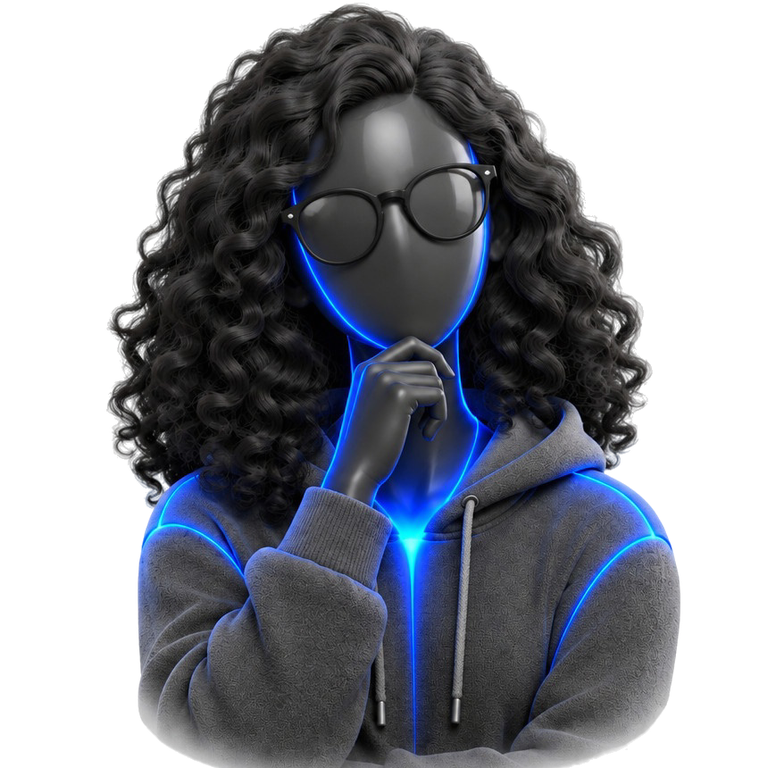
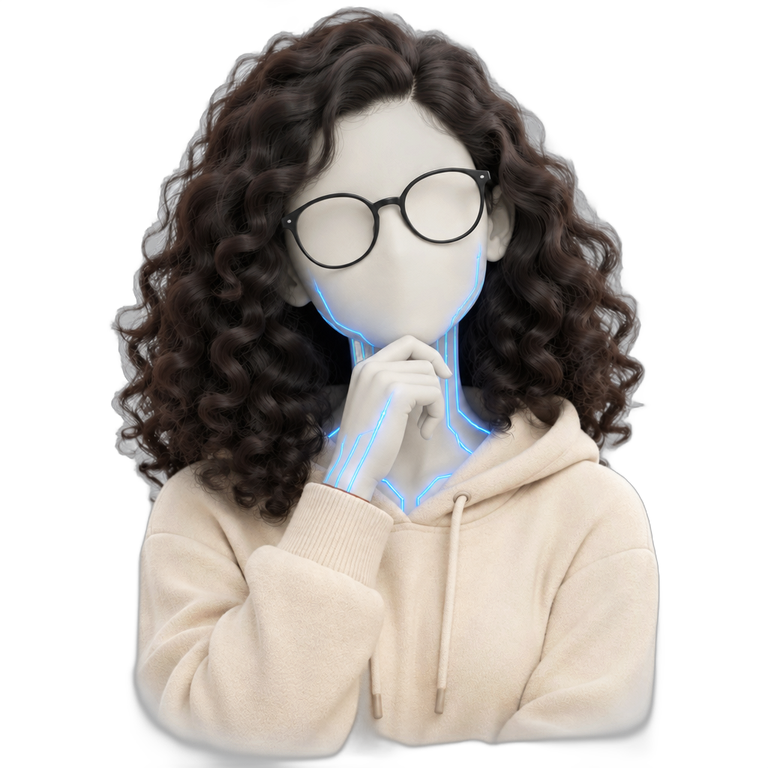
Characters: 13 new gamers (second cast) and all 30 AI copies redone in matte white bisque (skin only; hair, clothes, accessories keep their colours). Each reset wave swaps to the other cast

diff --git a/src/tiles/characters.js b/src/tiles/characters.js
@@ -33,34 +33,30 @@ diffuseColor.a *= clip * ${role === 'ai' ? 'uScan' : '(1.0 - uScan)'};`);
   return mat;
 }
 
-// Returns a Map "i,j" -> { setScan(s), setLift(y), meshes, converted }.
-// Starts downloading every human and AI picture at once; addCharacters then uses these.
-export function preloadCharacters(P) {
+// Starts downloading every human and AI picture of `names` at once: a Map "dir/name" -> Promise<Texture>.
+export function loadPictures(P, names) {
   const loader = new THREE.TextureLoader(), cache = new Map();
-  for (const name of P.chars ?? []) for (const dir of ['chars', 'chars-ai']) {
+  for (const name of names) for (const dir of ['chars', 'chars-ai']) {
     cache.set(`${dir}/${name}`, loader.loadAsync(`${P.assetBase ?? ''}/${dir}/${name}`).then((t) => {
       t.colorSpace = THREE.SRGBColorSpace; t.anisotropy = 16; return t;
     }));
   }
   return cache;
 }
+export const preloadCharacters = (P) => loadPictures(P, P.chars ?? []);
 
-export async function addCharacters(scene, P, tiles, cache = preloadCharacters(P)) {
-  const out = new Map();
-  if (!P.chars?.length) return out;
-  await Promise.all(cache.values());
-  const load = (dir, name) => cache.get(`${dir}/${name}`);
-  const geo = new THREE.PlaneGeometry(1, 1);
+// Casts a set of characters onto the tiles: a Map "i,j" -> file name. Design-frame tiles (rank 0) take
+// the pool in order, as they always have. Extra tiles (other screen shapes) take the least recently used
+// character that no tile within two cells already shows. `active` (static renders) pins one tile.
+// spread: every tile takes the least recently used character (for a cast smaller than the design frame).
+export function castTiles(tiles, names, active, spread = false) {
   const ordered = [...tiles].sort((a, b) => ((a.rank ?? 0) - (b.rank ?? 0)) || (a.screen[1] - b.screen[1]) || (a.screen[0] - b.screen[0]));
-  const pool = P.chars.filter((c) => c !== P.charActive);
-  const fwd = P.charForward * Math.SQRT1_2; // along the diagonal toward the (+x, +z) corner, nearest the camera
-  // Design-frame tiles (rank 0) take the pool in order, as they always have. Extra tiles (other screen
-  // shapes) take the least recently used character that no tile within two cells already shows.
+  const pool = names.filter((c) => c !== active);
   let k = 0;
-  const placed = [], lastUsed = new Map(pool.map((n) => [n, -1]));
+  const placed = [], lastUsed = new Map(pool.map((n) => [n, -1])), cast = new Map();
   const pick = (t) => {
-    if (t.active) return P.charActive;
-    if ((t.rank ?? 0) === 0) return pool[k++ % pool.length];
+    if (t.active && active) return active;
+    if ((t.rank ?? 0) === 0 && !spread) return pool[k++ % pool.length];
     const near = new Set(placed.filter((p) => Math.abs(p.i - t.i) <= 2 && Math.abs(p.j - t.j) <= 2).map((p) => p.name));
     const byAge = [...pool].sort((x, y) => lastUsed.get(x) - lastUsed.get(y));
     return byAge.find((n) => !near.has(n)) ?? byAge[0];
@@ -69,6 +65,22 @@ export async function addCharacters(scene, P, tiles, cache = preloadCharacters(P
     const name = pick(t);
     placed.push({ i: t.i, j: t.j, name });
     if (lastUsed.has(name)) lastUsed.set(name, placed.length);
+    cast.set(`${t.i},${t.j}`, name);
+  }
+  return cast;
+}
+
+// Returns a Map "i,j" -> { name, meshes, converted, at, setScan(s), setLift(y), setPictures(human, ai) }.
+export async function addCharacters(scene, P, tiles, cache = preloadCharacters(P)) {
+  const out = new Map();
+  if (!P.chars?.length) return out;
+  await Promise.all(cache.values());
+  const load = (dir, name) => cache.get(`${dir}/${name}`);
+  const geo = new THREE.PlaneGeometry(1, 1);
+  const cast = castTiles(tiles, P.chars, P.charActive);
+  const fwd = P.charForward * Math.SQRT1_2; // along the diagonal toward the (+x, +z) corner, nearest the camera
+  for (const t of tiles) {
+    const name = cast.get(`${t.i},${t.j}`);
     const scanU = { value: 0 };
     const meshes = [];
     for (const [role, dir, order] of [['human', 'chars', 3], ['ai', 'chars-ai', 4]]) {
@@ -84,6 +96,7 @@ export async function addCharacters(scene, P, tiles, cache = preloadCharacters(P
       name, meshes, converted: false, at: [t.x, t.y, t.z],
       setScan: (s) => { scanU.value = s; },
       setLift: (y) => meshes.forEach((m) => { m.position.y = t.y + 0.002 + y; }),
+      setPictures: (human, ai) => { meshes[0].material.map = human; meshes[1].material.map = ai; },
     });
   }
   return out;

diff --git a/src/tiles/autoplay.js b/src/tiles/autoplay.js
@@ -3,7 +3,7 @@
 // each settling back in (spent) before the next starts. When every one on screen is spent, a wave runs
 // left to right across the screen: each spent tile flips over like a card, about the axis through its
 // centre parallel to its top-right edge, and lands as a clear default tile with its human back. Then the
-// cycle starts again. The visitor always wins: pointing at a live tile pauses the auto-play (a clicked
+// cycle starts again. Each wave also swaps the tiles to the other cast of characters (cast, floor.js). The visitor always wins: pointing at a live tile pauses the auto-play (a clicked
 // tile still finishes), and it resumes RESUME_MS after the pointer leaves the tiles. reset() sends the wave
 // at once over every character tile on screen, activated or not, and restarts the cycle from the middle.
 import * as THREE from 'three';
@@ -12,7 +12,7 @@ const RESUME_MS = 3000, FOCUS_MS = 380, GAP_MS = 220;
 const WAVE_SPREAD = 1.3, FLIP_SECONDS = 0.75; // stagger across the screen, one tile's flip
 const ease = (t) => (t < 0.5 ? 4 * t * t * t : 1 - Math.pow(-2 * t + 2, 3) / 2);
 
-export function startAutoplay({ ctl, camera, chars, flipTile, composer, refiner }) {
+export function startAutoplay({ ctl, camera, chars, flipTile, composer, refiner, cast }) {
   let stopped = false, paused = false, resumeTimer = 0, first = true, resetReq = false, waving = false;
   const wait = (ms) => new Promise((r) => setTimeout(r, ms));
   const until = async (ok) => { while (!stopped && !ok()) await wait(60); };
@@ -38,7 +38,7 @@ export function startAutoplay({ ctl, camera, chars, flipTile, composer, refiner 
     ctl.inert = true;
     waving = true;
     const x0 = Math.min(...tiles.map((t) => t.x)), span = Math.max(1e-3, Math.max(...tiles.map((t) => t.x)) - x0);
-    const swapped = new Set();
+    const swapped = new Set(), target = cast.next();
     refiner.moving();
     await new Promise((resolve) => {
       let start = 0;
@@ -57,6 +57,7 @@ export function startAutoplay({ ctl, camera, chars, flipTile, composer, refiner 
             const ch = chars.get(t.key);
             ch.converted = false;
             ch.setScan(0);
+            cast.show(t.key, target);
           }
           flipTile(t.key, p >= 1 ? null : a < Math.PI / 2 ? a : a - Math.PI);
           if (p < 1) busy = true;
@@ -68,6 +69,7 @@ export function startAutoplay({ ctl, camera, chars, flipTile, composer, refiner 
       };
       requestAnimationFrame(frame);
     });
+    cast.done(target);
     refiner.start();
     waving = false;
     ctl.inert = false;

diff --git a/src/tiles/floor.js b/src/tiles/floor.js
@@ -11,6 +11,7 @@ import { nearShadeUniforms, applyNearShade } from './near-shade.js';
 import { floorMaterial, floorUniforms } from './floor-material.js';
 import { buildComposer, createRefiner } from './post.js';
 import { addCharacters, preloadCharacters } from './characters.js';
+import { createCasts } from './casts.js';
 import { createFocusRig } from './focus-rig.js';
 import { startInteraction } from './interact.js';
 import { placeCamera, coverage, onSomeScreen } from './viewport.js';
@@ -149,8 +150,9 @@ export async function createFloor(container, { params, base = '/tiles', isStatic
   // so the design's line-up stays the same whatever the screen.
   const inDesign = ([i, j]) => { const v = new THREE.Vector3(cx(i), tileH, cz(j)).project(camera); return Math.abs(v.x) < 1.12 && Math.abs(v.y) < 1.2; };
   const busted = cells.filter(([i, j]) => inDesign([i, j]) || onSomeScreen(camera, P, new THREE.Vector3(cx(i), tileH, cz(j))));
-  const chars = await addCharacters(field, P, busted.map(([i, j]) => (
-    { i, j, x: cx(i), y: tileH, z: cz(j), active: i === ia && j === ja, screen: toScreen(cx(i), cz(j)), rank: inDesign([i, j]) ? 0 : 1 })), pictures);
+  const bustTiles = busted.map(([i, j]) => (
+    { i, j, x: cx(i), y: tileH, z: cz(j), active: i === ia && j === ja, screen: toScreen(cx(i), cz(j)), rank: inDesign([i, j]) ? 0 : 1 }));
+  const chars = await addCharacters(field, P, bustTiles, pictures);
 
   // Capture the reflection from the activeAt tile, with that tile and its busts out of the way.
   if (P.actSideMirror > 0) {
@@ -239,7 +241,8 @@ export async function createFloor(container, { params, base = '/tiles', isStatic
   if (!isStatic) intro.done.then(() => {
     if (disposed) return;
     const ctl = startInteraction({ renderer, camera, composer, refiner, rigs, chars, cellAt, tint, floorU: U, nearU, P, expose });
-    const auto = startAutoplay({ ctl, camera, chars, flipTile, composer, refiner, P });
+    const cast = createCasts({ P, renderer, chars, bustTiles, pictures, gone: () => disposed });
+    const auto = startAutoplay({ ctl, camera, chars, flipTile, composer, refiner, cast });
     stop = () => { auto.stop(); ctl.stop(); };
     reset = auto.reset;
   });

diff --git a/src/tiles/casts.js b/src/tiles/casts.js
@@ -1,0 +1,33 @@
+// Two casts of characters take turns on the floor: each reset wave (autoplay.js) swaps every tile to the
+// other one, P.chars then P.chars2. The second downloads in the background once the floor is live; until
+// it is in, waves keep the first. Its textures are uploaded to the GPU as soon as they arrive, so the
+// swap mid-wave never stalls.
+import { loadPictures, castTiles } from './characters.js';
+
+const settled = async (pics) => new Map(await Promise.all([...pics].map(async ([k, t]) => [k, await t])));
+
+// Returns { next(), show(key, b), done(b) }: next is the cast the coming wave shows, show swaps one tile's
+// pictures, done records the swap and brings every other tile (off screen too) along.
+export function createCasts({ P, renderer, chars, bustTiles, pictures, gone }) {
+  const casts = [{ names: new Map([...chars].map(([k, c]) => [k, c.name])), tex: null }, null];
+  settled(pictures).then((tex) => { casts[0].tex = tex; });
+  if (P.chars2?.length) {
+    settled(loadPictures(P, P.chars2)).then((tex) => {
+      if (gone()) return;
+      tex.forEach((t) => renderer.initTexture(t));
+      casts[1] = { names: castTiles(bustTiles, P.chars2, null, true), tex };
+    });
+  }
+  let shown = 0;
+  const api = {
+    next: () => (casts[1] && casts[0].tex ? 1 - shown : shown),
+    show: (key, b) => {
+      const c = casts[b], n = c?.names.get(key), ch = chars.get(key);
+      if (!n || !ch || ch.name === n) return;
+      ch.setPictures(c.tex.get(`chars/${n}`), c.tex.get(`chars-ai/${n}`));
+      ch.name = n;
+    },
+    done: (b) => { shown = b; chars.forEach((_, key) => api.show(key, b)); },
+  };
+  return api;
+}
